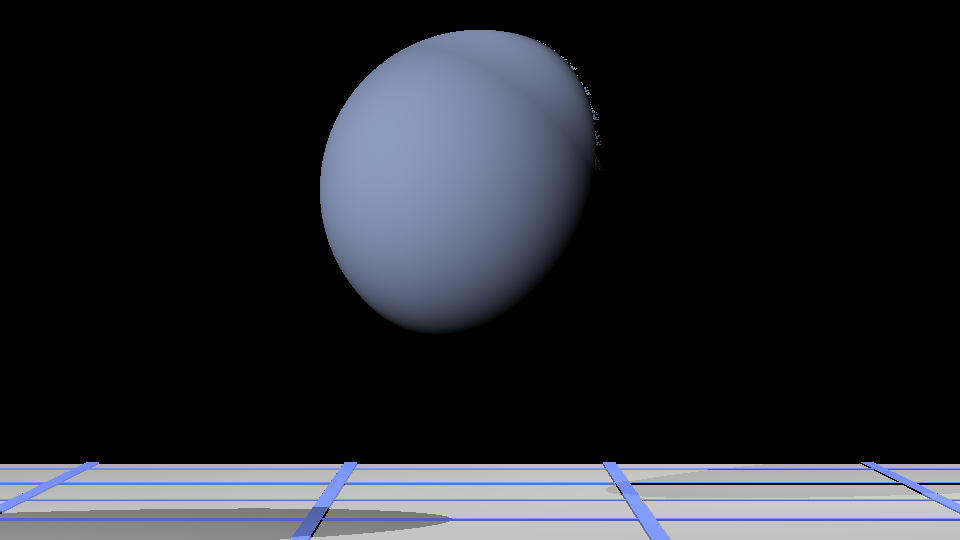
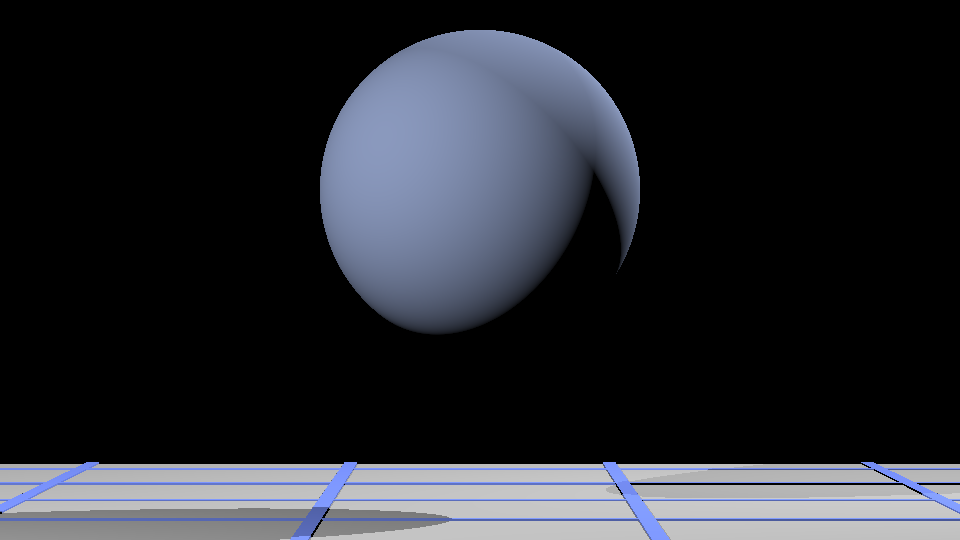
glazed close to working.

Changed region(s): [[0.5625, 0.0889, 0.6875, 0.4741], [0.5312, 0.0593, 0.5625, 0.0889]]

diff --git a/ray/shader/Glazed.java b/ray/shader/Glazed.java
@@ -36,35 +36,38 @@ public class Glazed extends Shader {
 	public void shade(Color outColor, Scene scene, ArrayList<Light> lights,
 			Vector3 toEye, IntersectionRecord record, int depth,
 			double contribution, boolean internal) {
-        // TODO: fill in this function.
-		Vector3 l = new Vector3();
-		
-		for (Light light : lights) {
-			if (!isShadowed(scene, light, record)) {
-				l.sub(light.position, record.location);
-				l.normalize();
-				toEye.normalize();
-				
-				double cosTheta1 = Math.max(0,record.normal.dot(l));
-				double cosTheta2 = Math.sqrt(1-Math.pow(Math.sqrt((1-cosTheta1*cosTheta1))/refractiveIndex, 2));
-				//System.out.println(cosTheta1+" "+cosTheta2);
-
-				double Fp = (refractiveIndex*cosTheta1-cosTheta2)/(refractiveIndex*cosTheta1+cosTheta2);
-				double Fs = (cosTheta1-refractiveIndex*cosTheta2)/(cosTheta1+refractiveIndex*cosTheta2);
-				double R = 0.5 * (Fp*Fp + Fs*Fs);
-				//System.out.println(R);
-				
-				substrate.shade(outColor, scene, lights, toEye, record, depth, contribution, internal);
-				outColor.scale(1-R);
-				
-		        double d = record.normal.dot(toEye);
-		    	
-			}
-		}
         // Implement Fresnel equation (Shirley 13.1)
         // compute reflected contribution (make a recursive call to shadeRay)
         // compute substrate contribution (call substrate.shade(...))
 		
+		// compute reflected ray
+        double d = record.normal.dot(toEye);
+    	Vector3 r = new Vector3(record.normal.x, record.normal.y, record.normal.z);
+    	r.scale(2*d);
+    	r.sub(toEye);
+    	
+    	Ray refRay = new Ray(record.location, r);
 		
+		Color outColor1 = new Color();
+		Color outColor2 = new Color();
+		
+		// TODO: fix the recursive call
+    	RayTracer.shadeRay(outColor1, scene, refRay, lights, MAXDEPTH, MINCONTRIBUTION, false);
+    	substrate.shade(outColor2, scene, lights, toEye, record, 1, 1, false);
+		
+		double cosTheta1 = Math.max(0,record.normal.dot(toEye));
+		double cosTheta2 = Math.sqrt(1-(1-cosTheta1*cosTheta1)/(refractiveIndex * refractiveIndex));
+
+		double Fp = (refractiveIndex*cosTheta1-cosTheta2)/(refractiveIndex*cosTheta1+cosTheta2);
+		double Fs = (cosTheta1-refractiveIndex*cosTheta2)/(cosTheta1+refractiveIndex*cosTheta2);
+		double R = 0.5 * (Fp*Fp + Fs*Fs);
+
+    	outColor1.scale(R);
+		outColor2.scale(1-R);
+		
+		outColor.add(outColor1);
+		outColor.add(outColor2);
+
+		outColor.clamp(0, 1);
     }
 }

diff --git a/ray/RayTracer.java b/ray/RayTracer.java
@@ -157,7 +157,9 @@ public class RayTracer {
 		
 		toEye.sub(scene.camera.viewPoint, eyeRecord.location);
 		if (eyeRecord.surface != null) {
-			eyeRecord.surface.getShader().shade(outColor, scene, lights, toEye, eyeRecord, 1, 1, false);
+			if (depth >= 1){ // TODO: implement contribution?
+			eyeRecord.surface.getShader().shade(outColor, scene, lights, toEye, eyeRecord, depth-1, 1, false);
+			}
 		}
 	}
 

diff --git a/ray/shader/Lambertian.java b/ray/shader/Lambertian.java
@@ -47,7 +47,7 @@ public class Lambertian extends Shader {
 				l.sub(light.position, record.location);
 				l.normalize();
 				
-	      double x = Math.max(0, record.normal.dot(l));
+				double x = Math.max(0, record.normal.dot(l));
 				outColor.r += diffuseColor.r * light.intensity.r * x;
 				outColor.g += diffuseColor.g * light.intensity.g * x;
 				outColor.b += diffuseColor.b * light.intensity.b * x;

diff --git a/ray/surface/Triangle.java b/ray/surface/Triangle.java
@@ -55,7 +55,7 @@ public class Triangle extends Surface {
     public boolean intersect(IntersectionRecord outRecord, Ray rayIn) {
 
         // TODO: fill in this function.
-
+    	
         // use strategy from book, pp. 78-79
 
         return false;
